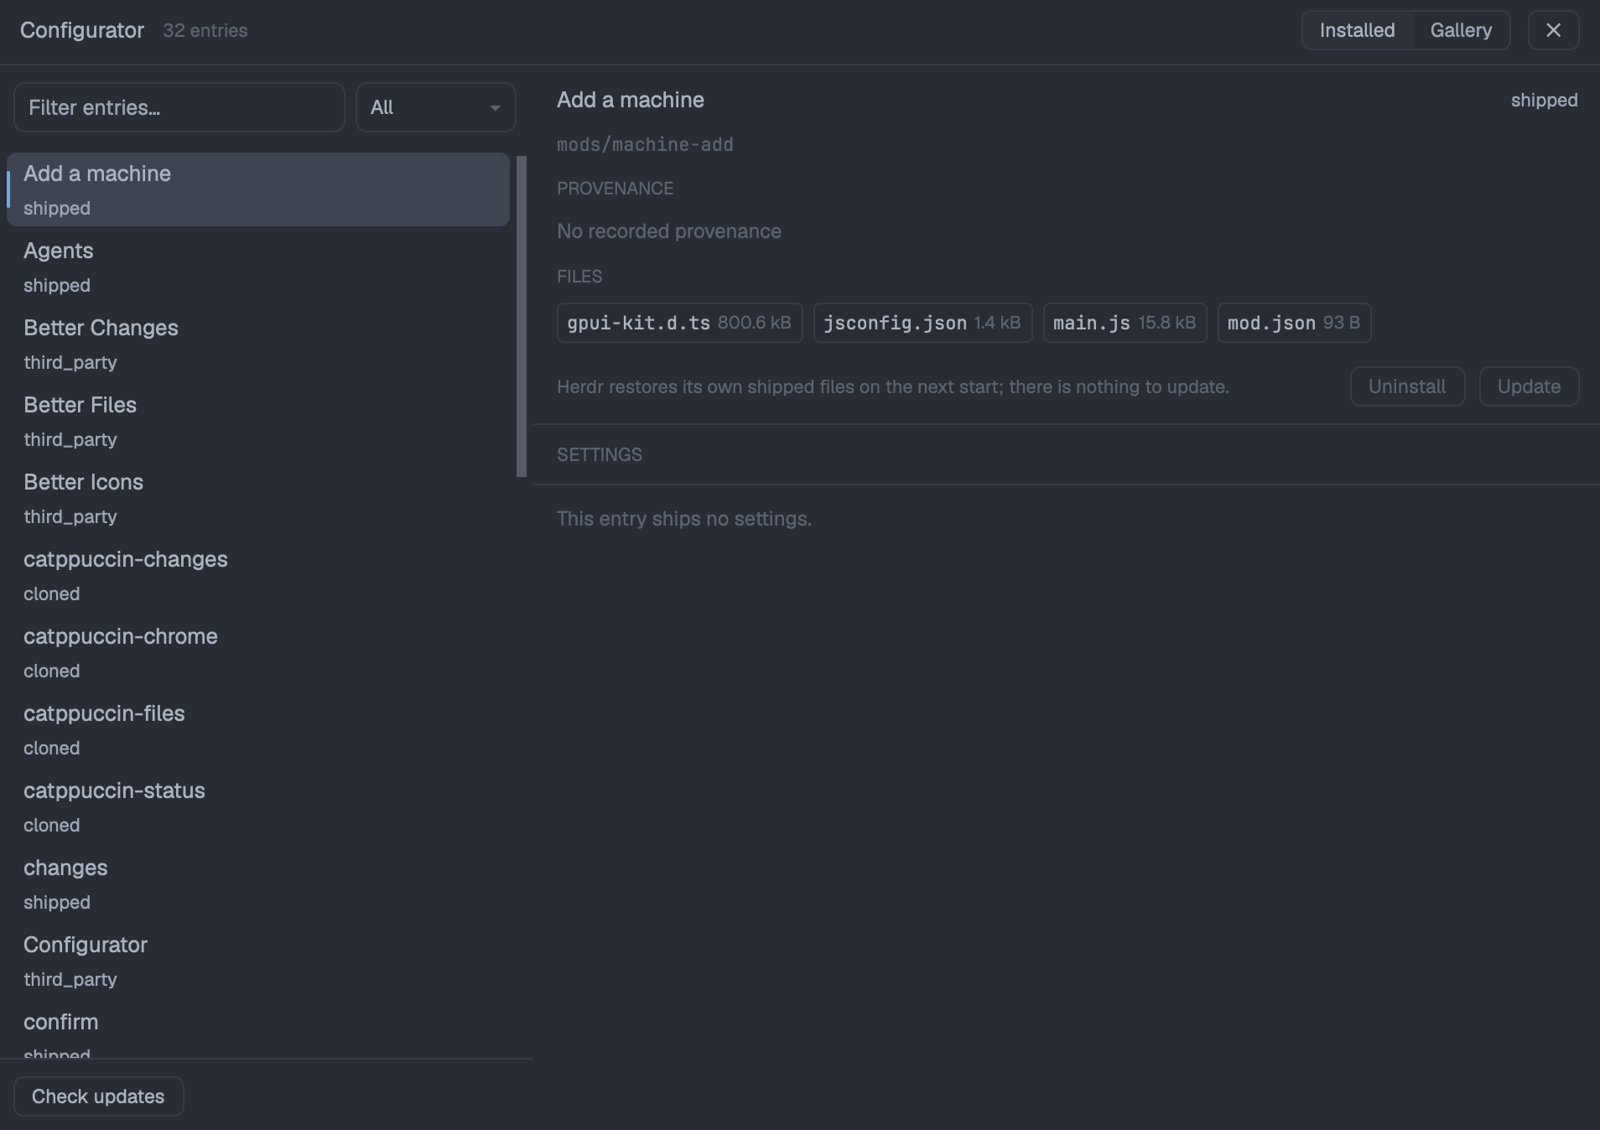
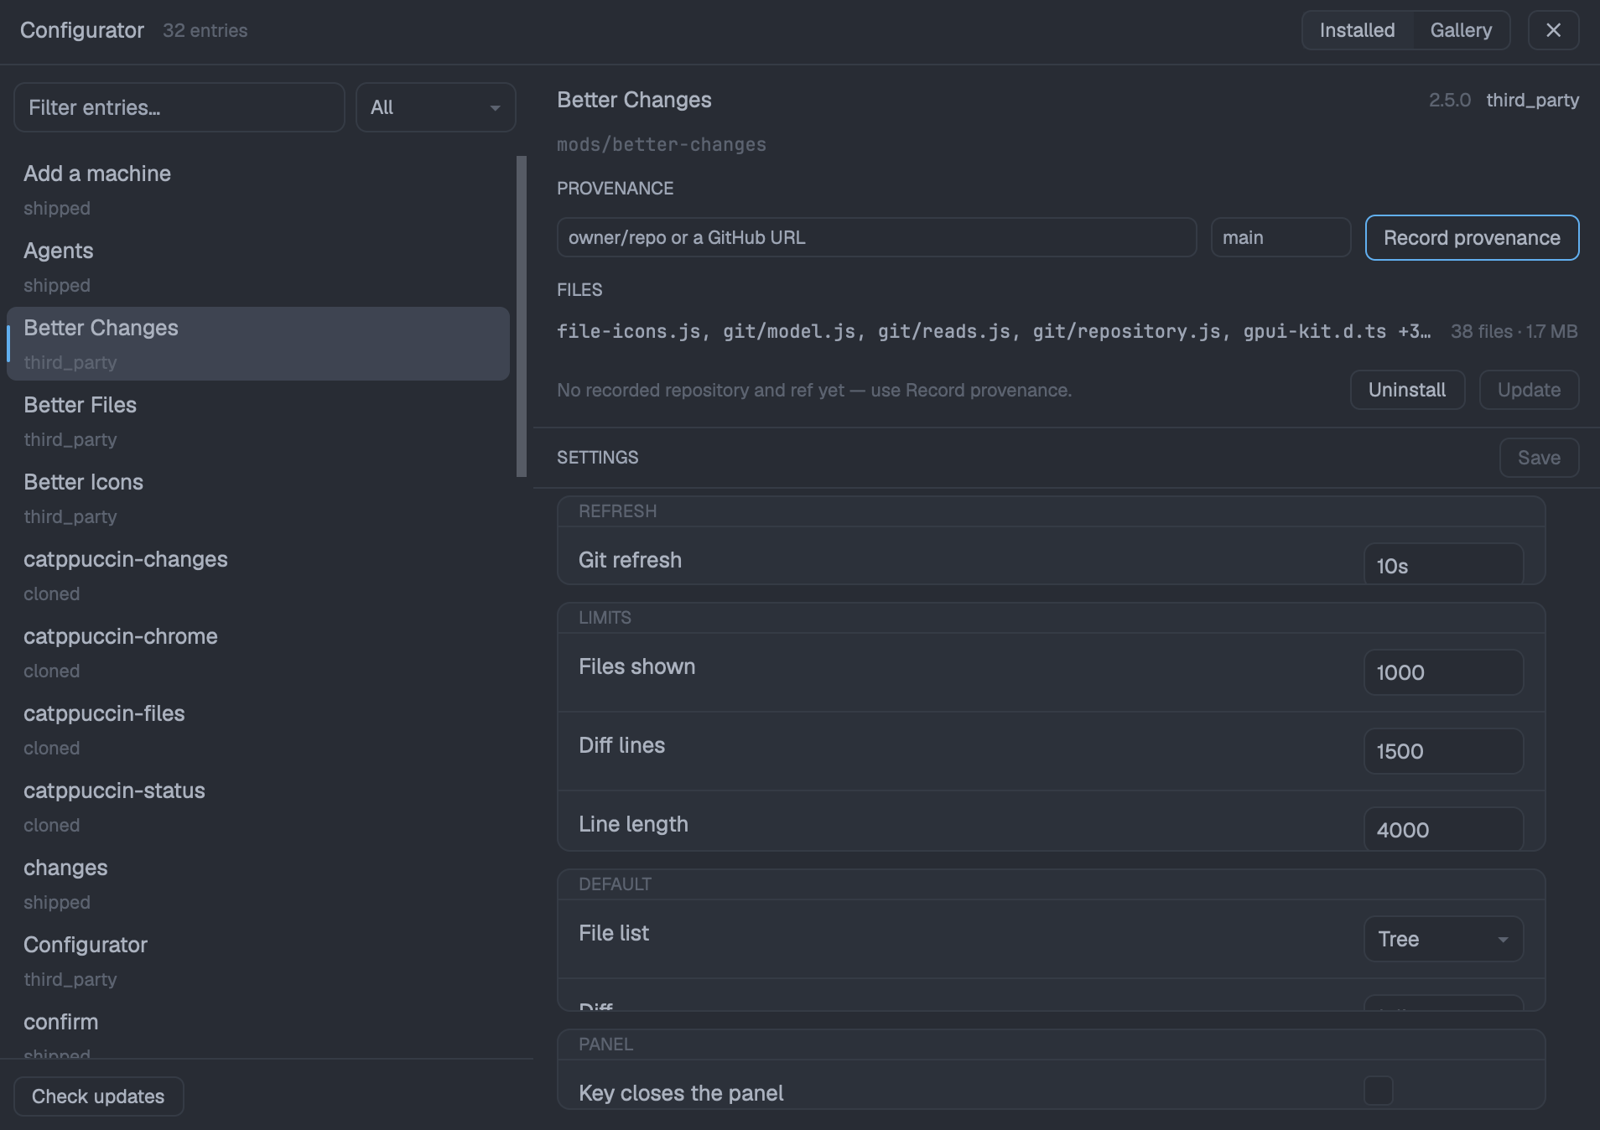
feat: files on one line, and settings as cards
The file chips said nothing the folder name and the count do not: one line of
names, the count and the total size. Settings groups become cards on raised with
a header row and hairlines, so a group and its fields no longer blur into the
pane above them.

diff --git a/mods/configurator/main.js b/mods/configurator/main.js
@@ -1084,7 +1084,7 @@ export default class Configurator extends View {
       );
   }
 
-  settingRow(t, form, field) {
+  settingRow(t, form, field, separated) {
     const id = `${form.name}:${field.key}`;
     const draft = form.drafts[field.key];
     const problem = form.problems[field.key] ?? parseDraft(field, draft).error ?? null;
@@ -1092,12 +1092,11 @@ export default class Configurator extends View {
     const hovered = this.hoveredField === id;
     return h_flex()
       .w_full()
-      .px(14)
-      .py(7)
+      .px(12)
+      .py(9)
       .gap(16)
       .items_start()
-      .border_b(1)
-      .border_color(t.border)
+      .when(separated, (el) => el.border_t(1).border_color(t.border))
       .on_hover((isHovered, cx) => {
         const next = isHovered ? id : this.hoveredField === id ? null : this.hoveredField;
         if (next === this.hoveredField) return;
@@ -1143,9 +1142,10 @@ export default class Configurator extends View {
             .px(14)
             .gap(10)
             .items_center()
+            .bg(t.surface)
             .border_b(1)
             .border_color(t.border)
-            .child(div().text_size(11).font_semibold().text_color(t.dim).child("SETTINGS")),
+            .child(div().text_size(10.5).font_semibold().text_color(t.muted).child("SETTINGS")),
         )
         .child(
           div().px(14).py(10).text_size(12).text_color(t.dim).child("This entry ships no settings."),
@@ -1160,29 +1160,20 @@ export default class Configurator extends View {
           .px(14)
           .gap(10)
           .items_center()
+          .bg(t.surface)
           .border_b(1)
           .border_color(t.border)
-          .child(div().text_size(11).font_semibold().text_color(t.dim).child("SETTINGS"))
+          .child(div().text_size(10.5).font_semibold().text_color(t.muted).child("SETTINGS"))
           .child(div().flex_1())
           .when(Boolean(form.note), (el) =>
             el.child(div().text_size(11).text_color(t.dim).child(form.note)),
           )
           .child(
-            div()
-              .id(`configurator-save-${form.name}`)
-              .flex_none()
-              .px(10)
-              .py(3)
-              .rounded(6)
-              .border_1()
-              .border_color(changed.length ? t.accent : t.border)
-              .bg(changed.length ? t.selected : t.background)
-              .text_size(12)
-              .text_color(changed.length ? t.foreground : t.dim)
-              .cursor_pointer()
-              .hover((s) => s.bg(t.hover))
-              .on_click((_e, cx) => this.save(form, cx))
-              .child("Save"),
+            this.button(t, `configurator-save-${form.name}`, "Save", {
+              solid: changed.length > 0,
+              disarmed: changed.length === 0,
+              on_click: (_e, cx) => this.save(form, cx),
+            }),
           ),
       )
       .child(
@@ -1191,22 +1182,34 @@ export default class Configurator extends View {
           .flex_1()
           .min_h(0)
           .child(
-            v_flex().id("configurator-settings-body").size_full().overflow_y_scroll().py(2).pr(12).children(
+            v_flex().id("configurator-settings-body").size_full().overflow_y_scroll().py(4).pr(20).children(
               form.groups.map((group) =>
                 v_flex()
+                  .mx(14)
+                  .mb(10)
+                  .rounded(8)
+                  .border_1()
+                  .border_color(t.border)
+                  .bg(t.raised)
+                  .overflow_hidden()
                   .when(Boolean(group.name), (el) =>
                     el.child(
-                      div()
-                        .px(14)
-                        .pt(10)
-                        .pb(2)
-                        .text_size(11)
-                        .font_semibold()
-                        .text_color(t.dim)
-                        .child(group.name.replaceAll("_", " ").toUpperCase()),
+                      h_flex()
+                        .h(30)
+                        .px(12)
+                        .items_center()
+                        .border_b(1)
+                        .border_color(t.border)
+                        .child(
+                          div()
+                            .text_size(10.5)
+                            .font_semibold()
+                            .text_color(t.dim)
+                            .child(group.name.replaceAll("_", " ").toUpperCase()),
+                        ),
                     ),
                   )
-                  .children(group.fields.map((field) => this.settingRow(t, form, field))),
+                  .children(group.fields.map((field, index) => this.settingRow(t, form, field, index > 0))),
               ),
             ),
           )
@@ -1379,36 +1382,35 @@ export default class Configurator extends View {
       .child(this.sectionLabel(t, "FILES"))
       .child(
         h_flex()
-          .flex_wrap()
-          .gap(6)
-          .when(detail.files.length === 0, (el) =>
-            el.child(div().text_size(11).text_color(t.dim).child("No files on disk.")),
+          .gap(10)
+          .items_center()
+          .child(
+            div()
+              .flex_1()
+              .min_w(0)
+              .truncate()
+              .font_family("JetBrains Mono")
+              .text_size(11)
+              .text_color(detail.files.length ? t.muted : t.dim)
+              .child(
+                detail.files.length
+                  ? `${chips.shown.map((file) => file.name).join(", ")}${
+                      chips.more > 0 ? ` +${chips.more} more` : ""
+                    }`
+                  : "No files on disk.",
+              ),
           )
-          .children(
-            chips.shown.map((file) =>
-              h_flex()
-                .gap(4)
-                .items_center()
-                .px(5)
-                .py(2)
-                .rounded(4)
-                .border_1()
-                .border_color(t.border)
-                .child(div().font_family("JetBrains Mono").text_size(11).text_color(t.foreground).child(file.name))
-                .child(div().text_size(10.5).text_color(t.dim).child(sizeText(file.size))),
-            ),
-          )
-          .when(chips.more > 0, (el) =>
+          .when(detail.files.length > 0, (el) =>
             el.child(
               div()
-                .px(5)
-                .py(2)
-                .rounded(4)
-                .border_1()
-                .border_color(t.border)
-                .text_size(10.5)
+                .flex_none()
+                .text_size(11)
                 .text_color(t.dim)
-                .child(`+${chips.more} more`),
+                .child(
+                  `${detail.files.length} ${detail.files.length === 1 ? "file" : "files"} · ${sizeText(
+                    detail.files.reduce((sum, file) => sum + file.size, 0),
+                  )}`,
+                ),
             ),
           ),
       )
@@ -1424,7 +1426,7 @@ export default class Configurator extends View {
 
   // A small uppercase group label, the same shape the app's own settings panes use.
   sectionLabel(t, text) {
-    return div().flex_none().pt(2).text_size(10.5).font_semibold().text_color(t.dim).child(text);
+    return div().flex_none().pt(2).text_size(10.5).font_semibold().text_color(t.muted).child(text);
   }
 
   // The one row of actions for the selected entry, its reason on the left.

diff --git a/mods/configurator/model.test.js b/mods/configurator/model.test.js
@@ -321,11 +321,13 @@ test("the detail pane's file chips cap at a limit and count the rest", () => {
   assert.deepEqual(fileChipsOf(null), { shown: [], more: 0 });
 });
 
-test("sizeText writes byte sizes in B and kB", () => {
+test("sizeText writes byte sizes in B, kB and MB", () => {
   assert.equal(sizeText(0), "0 B");
   assert.equal(sizeText(911), "911 B");
   assert.equal(sizeText(2048), "2.0 kB");
   assert.equal(sizeText(26628), "26.0 kB");
+  assert.equal(sizeText(1048576), "1.0 MB");
+  assert.equal(sizeText(1778493), "1.7 MB");
 });
 
 // --- Gallery: one GitHub topic search, paged, cached and refreshed offline-first. ---

diff --git a/mods/configurator/model.js b/mods/configurator/model.js
@@ -231,7 +231,9 @@ const firstString = (...values) => values.find((value) => typeof value === "stri
 // "B" under a kilobyte, one decimal above it.
 export function sizeText(bytes) {
   const value = Number(bytes) || 0;
-  return value < 1024 ? `${value} B` : `${(value / 1024).toFixed(1)} kB`;
+  if (value < 1024) return `${value} B`;
+  if (value < 1024 * 1024) return `${(value / 1024).toFixed(1)} kB`;
+  return `${(value / (1024 * 1024)).toFixed(1)} MB`;
 }
 
 // --- Gallery: the GitHub topic's repositories, paged, cached, refreshed. ---

diff --git a/RECIPE.md b/RECIPE.md
@@ -61,9 +61,10 @@ at 11 px `muted`, pushed right; then the folder as `mods/<name>` in JetBrains Mo
 "This entry is a copy; it never follows upstream."; only an unknown origin reads "Unknown
 origin"), and for a checked entry `checked 2026-11-16 08:00 UTC · upstream moved` (or
 `up to date` / `check failed`) at 11 px `dim`, then a failed lookup's error text at 11 px
-`ansi1`. Under a label `FILES`: the first five files as chips, each with its name in JetBrains
-Mono at 11 px and its size at 10.5 px (`B`, or one decimal and `kB`), and past five a
-`+n more` chip.
+`ansi1`. Under a label `FILES`: one line, the first five files' names in JetBrains Mono at
+11 px `muted` (`+n more` past five), and at the right the count and the total size at 11 px
+`dim` ("38 files · 1.7 MB", one file reading "1 file"; `B`, one decimal and `kB`, one decimal
+and `MB`).
 Empty: "Select an entry." or "Loading…".
 
 
@@ -81,17 +82,20 @@ entry and no key bindings."); on the right, in order, `Key bindings` (third part
 6 px, 11.5 px text, `background` with a `border` line. A button with nothing behind it stays
 in place, `dim`, unclickable, and the sentence says why.
 
-**Right column, bottom — settings**, `background` colour. A 36 px header with 14 px padding:
-"SETTINGS" at 11 px semibold `dim`, an optional note at 11 px `dim`, and `Save` at 12 px
-(accent border and `selected` background when there are changed keys). Below it a scrolling
-body: one group per first path segment of the schema, its name uppercased at 11 px semibold
-`dim`; one row per field, 14 px horizontal and 7 px vertical padding, 16 px gap, separated by
-1 px `border` lines. On the left the label at 13 px, an `accent` dot when the value differs
-from the file, the schema's description at 11 px `dim` while hovered, and the validation
-problem at 11 px `ansi1`. On the right a 96 px control: a text or number `Input` 26 px tall at
-12 px; an enum `Select` trigger 28 px tall at 12.5 px opening a 180 px menu; a boolean
-`Checkbox` 18 × 18 px. With no schema fields the header still shows and the body reads
-"This entry ships no settings." No entry: "Select an entry." Loading: "Loading…".
+**Right column, bottom — settings**, `background` colour. A 36 px header on `surface`, 14 px
+padding, a `border` line under it: "SETTINGS" at 10.5 px semibold `muted`, an optional note at
+11 px `dim`, and a 24 px `Save` button (accent border, `selected` fill when there are changed
+keys; `dim` and unclickable when there are none). Below it a scrolling body of cards, one per
+first path segment of the schema: 8 px rounded, 1 px `border`, `raised` fill, 14 px in from
+either side, 10 px apart — a 30 px card header holds the group's name uppercased at 10.5 px
+semibold `dim` over a `border` line, and each field is a row 12 px horizontal and 9 px
+vertical padding, 16 px gap, a `border` line above every row but the first. On the left the
+label at 13 px, an `accent` dot when the value differs from the file, the schema's description
+at 11 px `dim` while hovered, and the validation problem at 11 px `ansi1`. On the right a
+96 px control: a text or number `Input` 26 px tall at 12 px; an enum `Select` trigger 28 px
+tall at 12.5 px opening a 180 px menu; a boolean `Checkbox` 18 × 18 px. With no schema fields
+the header still shows and the body reads "This entry ships no settings." No entry: "Select
+an entry." Loading: "Loading…".
 
 Colours are theme names, never hex: `background`, `surface`, `chrome`, `border`, `accent`,
 `selected`, `hover`, `muted`, `dim`, `foreground`, `ansi1`, `popover`, `solid`,
